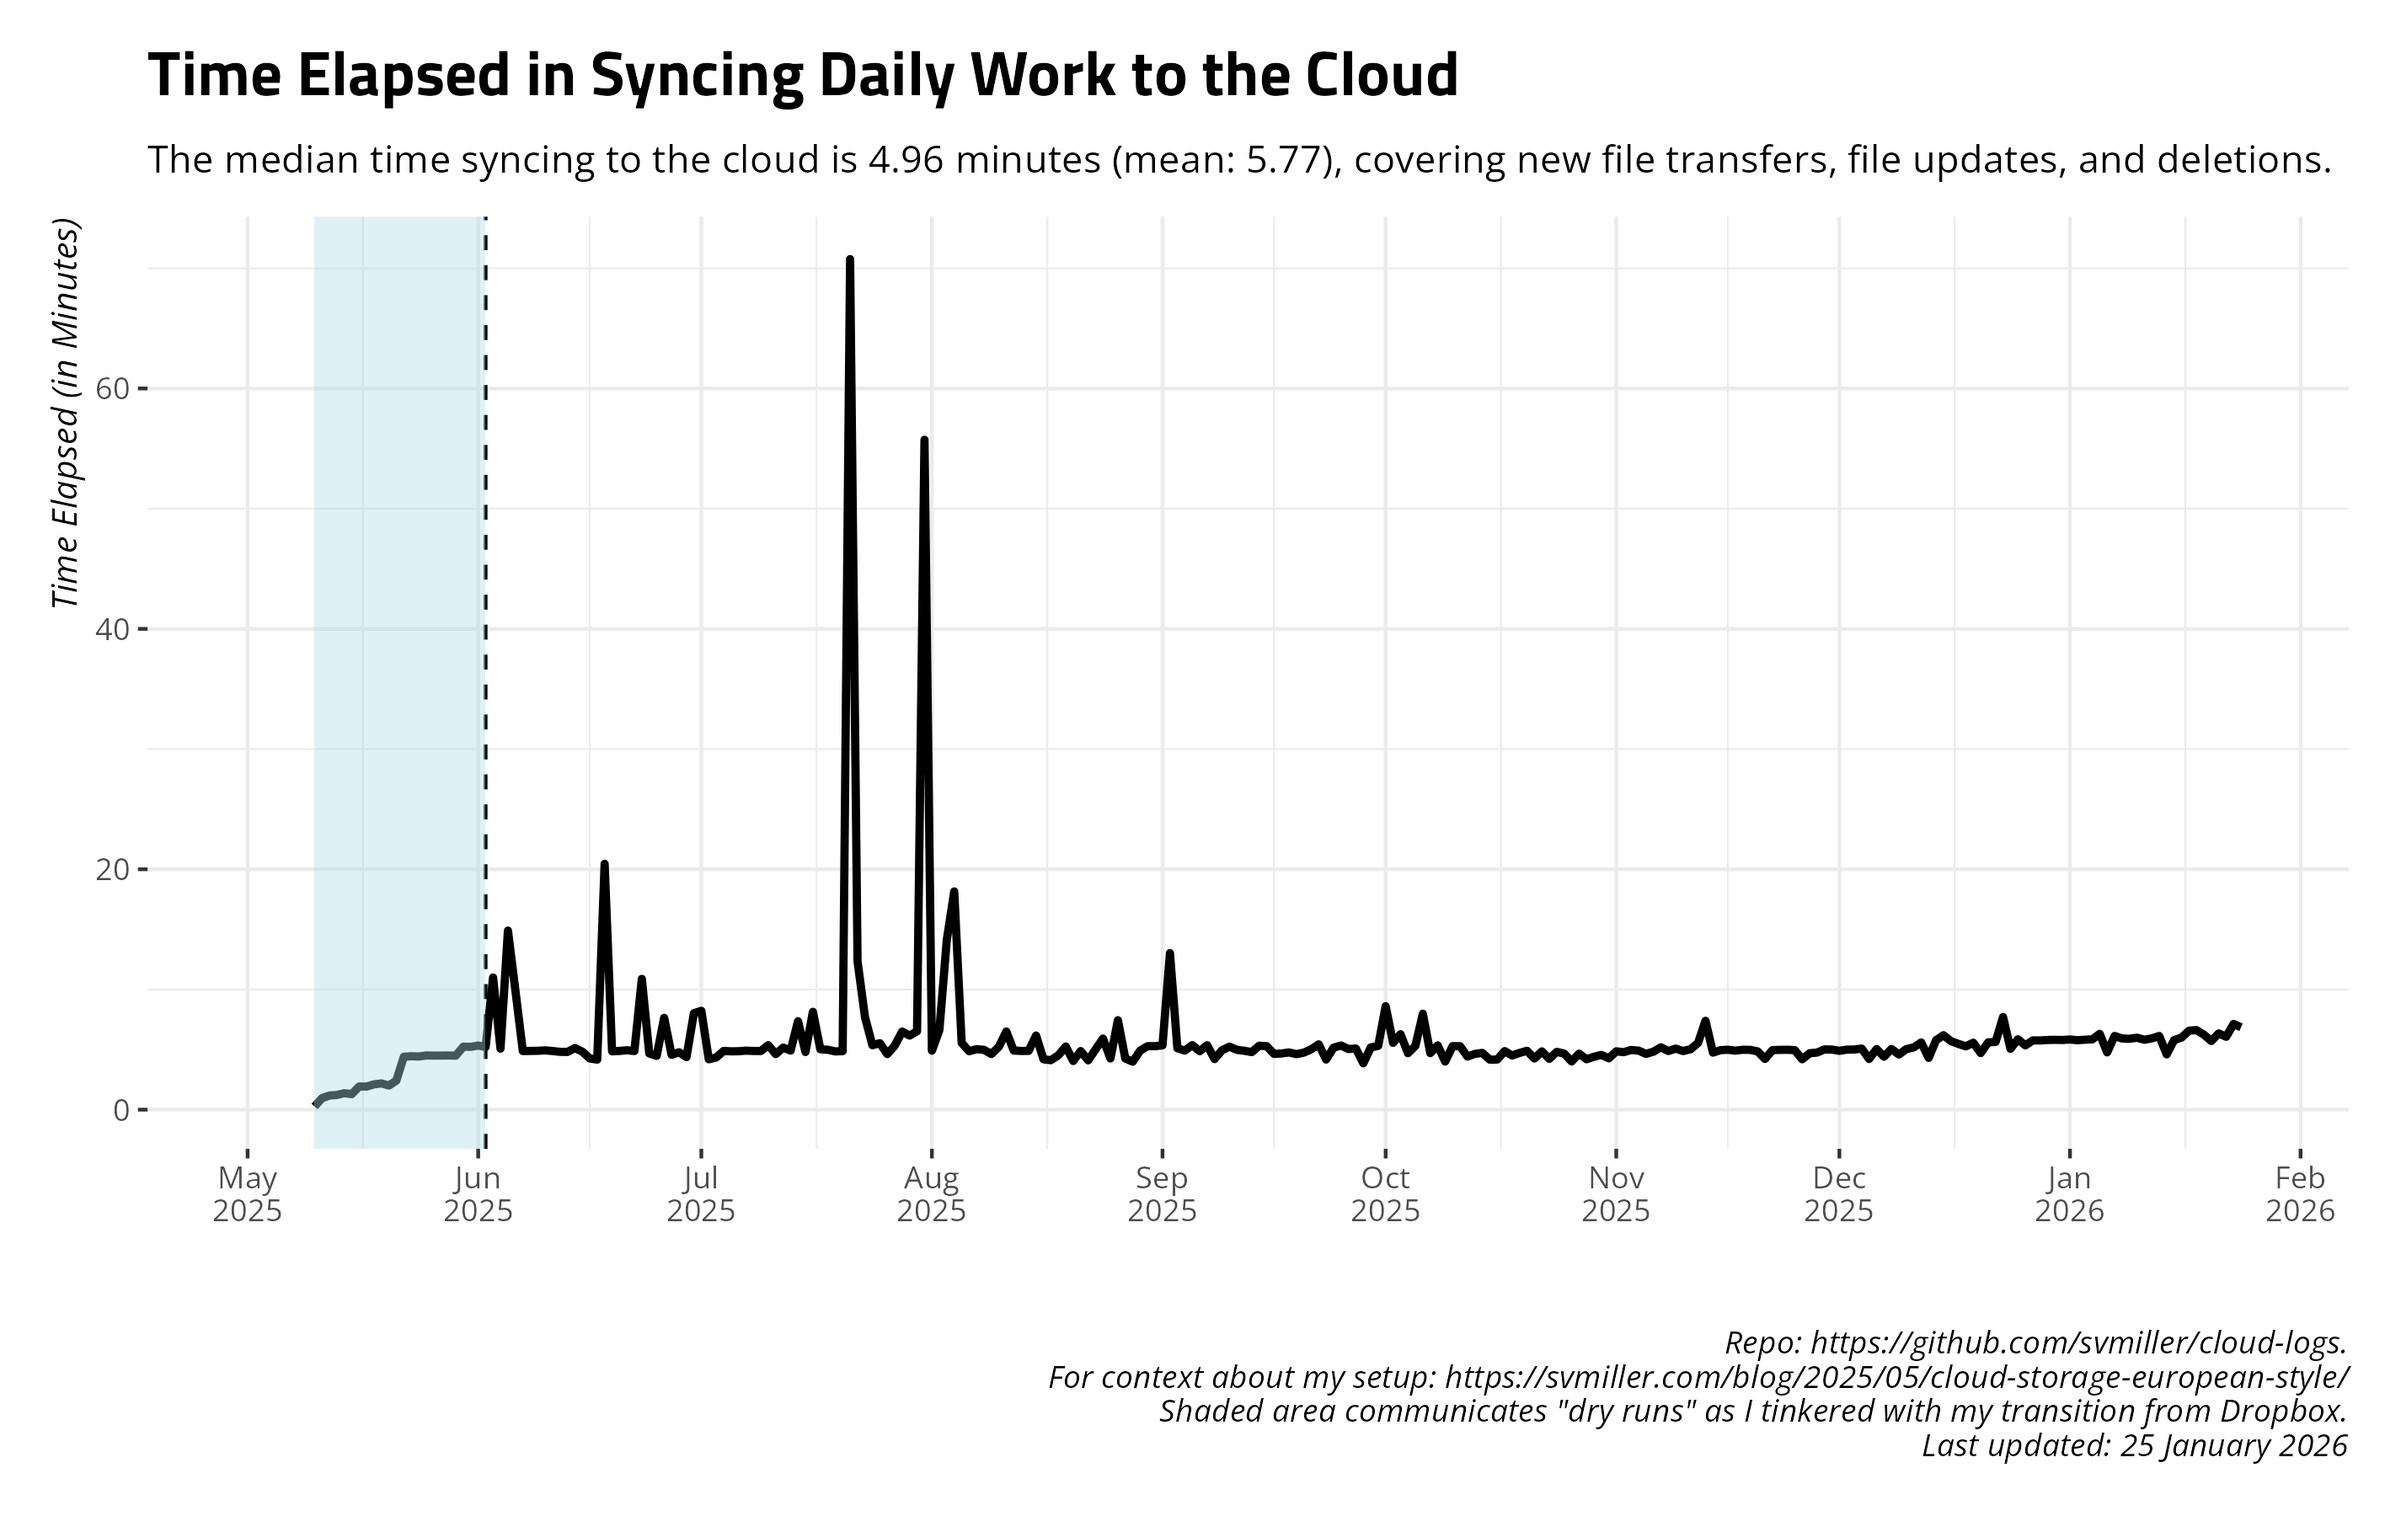
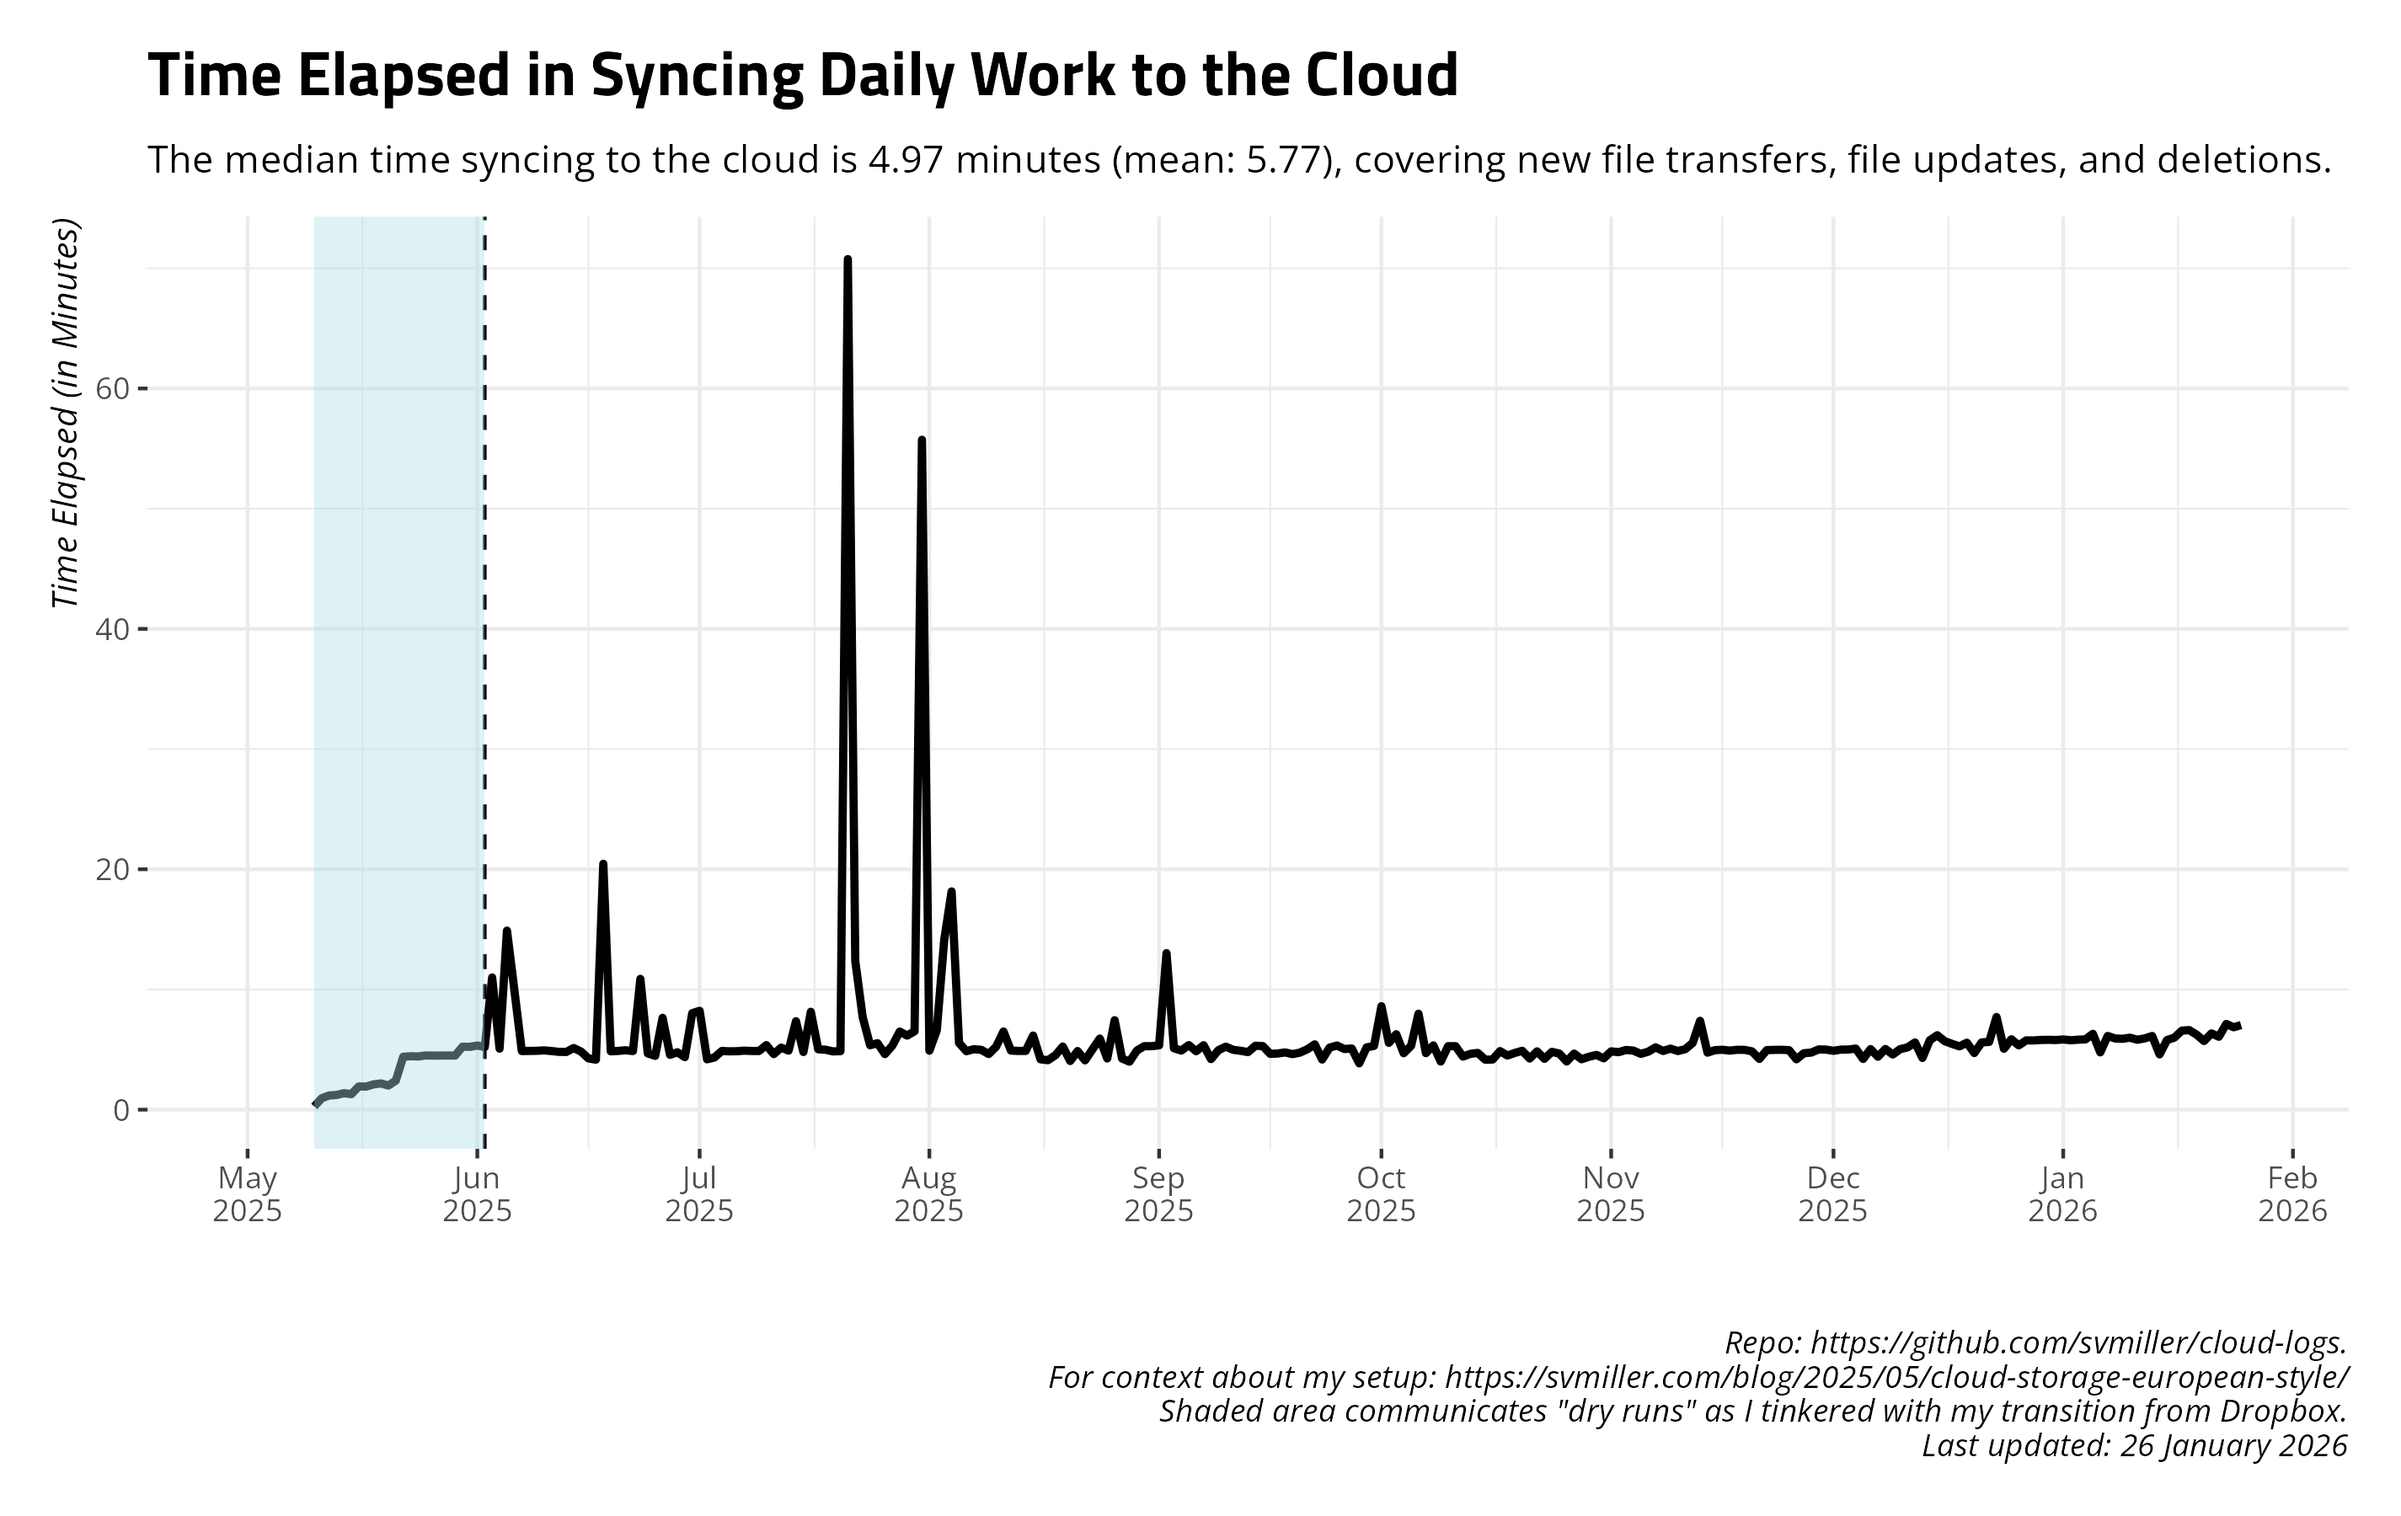
Date: 2026-01-26 09:00:24. Hi mom!

diff --git a/README.md b/README.md
@@ -27,17 +27,17 @@ and uploads to Github.
     #> # A tibble: 14 × 4
     #>    date       ftransfer stransfer   elapsed
     #>    <date>         <dbl> <chr>       <chr>  
-    #>  1 2026-01-11         0 <NA>        5m49.0s
-    #>  2 2026-01-12        52 2.182 MiB   5m55.8s
-    #>  3 2026-01-13        77 818.499 KiB 6m7.7s 
-    #>  4 2026-01-14        67 54.182 MiB  4m36.0s
-    #>  5 2026-01-15        24 1.058 MiB   5m47.3s
-    #>  6 2026-01-16         0 <NA>        5m59.7s
-    #>  7 2026-01-17         0 <NA>        6m34.4s
-    #>  8 2026-01-18         0 <NA>        6m37.1s
-    #>  9 2026-01-19        22 306.049 KiB 6m14.4s
-    #> 10 2026-01-20         8 8.384 KiB   5m42.6s
-    #> 11 2026-01-21         0 <NA>        6m20.7s
-    #> 12 2026-01-22        19 1.012 MiB   6m3.9s 
-    #> 13 2026-01-23         0 <NA>        7m7.9s 
-    #> 14 2026-01-24         0 <NA>        6m51.3s
+    #>  1 2026-01-12        52 2.182 MiB   5m55.8s
+    #>  2 2026-01-13        77 818.499 KiB 6m7.7s 
+    #>  3 2026-01-14        67 54.182 MiB  4m36.0s
+    #>  4 2026-01-15        24 1.058 MiB   5m47.3s
+    #>  5 2026-01-16         0 <NA>        5m59.7s
+    #>  6 2026-01-17         0 <NA>        6m34.4s
+    #>  7 2026-01-18         0 <NA>        6m37.1s
+    #>  8 2026-01-19        22 306.049 KiB 6m14.4s
+    #>  9 2026-01-20         8 8.384 KiB   5m42.6s
+    #> 10 2026-01-21         0 <NA>        6m20.7s
+    #> 11 2026-01-22        19 1.012 MiB   6m3.9s 
+    #> 12 2026-01-23         0 <NA>        7m7.9s 
+    #> 13 2026-01-24         0 <NA>        6m51.3s
+    #> 14 2026-01-25        25 115.706 KiB 7m2.1s
